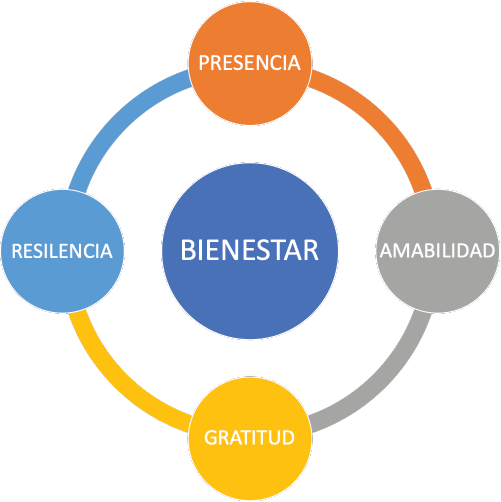
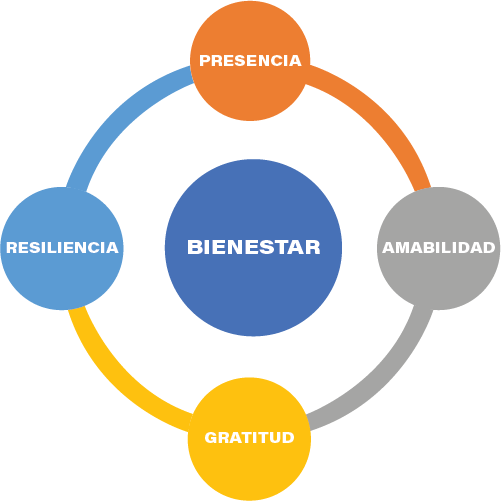
upload new images and fixed some texts

diff --git a/index.html b/index.html
@@ -147,7 +147,7 @@
                 <div class="container">
                         <div class="text-center">
                     <h3 class="section-heading text-uppercase">4 motores del Bienestar que son fuentes de felicidad interna.</h3>
-                    <img class="center" src="assets/img/Motores.png" alt="Girl in a jacket">
+                    <img class="center" src="assets/img/MOTORES.png" alt="Girl in a jacket">
                 <div>
                 
                    
@@ -168,9 +168,9 @@
  <div class="container">
 <h2>¿Por qué Mindfulness y Alegría?</h2>
 <ul>
-<li>Contribuir el autoconocimiento</li>
-<li>Contribuir el equilibrio emocional</li>
-<li>Contribuir el estado de ánimo</li>
+<li>Contribuir al autoconocimiento</li>
+<li>Contribuir al equilibrio emocional</li>
+<li>Contribuir al estado de ánimo</li>
 <li>Aumenta la concentración </li> 
 <li>Favorece la creatividad</li>
 <li>Previene la depresión</li>
@@ -189,12 +189,10 @@
  <div class="container">
     <h2 class="section-heading text-uppercase text-center">RED CONEXIÓN </h2>
      <p>
-Facilitadoras  en procesos de desarrollo de Liderazgo
-Entrenadoras en : <b>CONSCIENCIA-AGILIDAD-ACCOUNTABILITY</b>
+Facilitadoras en procesos de desarrollo de Liderazgo
+entrenadoras en: <b>CONSCIENCIA-AGILIDAD-ACCOUNTABILITY</b>
 Experiencia por mas de <b>30</b> años en organizaciones 
-Expertas en Liderazgo y Consciencia 
-
-Propósito : Contribuir  en el desarrollo de habilidades en liderazgo y comunicación , de personas y equipos con el propósito de ser conscientes en el como hacemos lo que hacemos para ser mas efectivos y asertivos  expandiendo así si capacidad efectiva.</p>          
+<b>Expertas en Liderazgo, Consciencia y Propósito</b> para Contribuir  en el desarrollo de habilidades en liderazgo y comunicación, de personas y equipos con el propósito de ser conscientes en el como hacemos lo que hacemos para ser mas efectivos y asertivos expandiendo así su capacidad efectiva.</p>          
                
      <hr>       
     </div>     
@@ -272,9 +270,9 @@ Guatemala.
       <div class="col-lg-4 center">
         <div class="card mb-5 mb-lg-0">
           <div class="card-body">
-            <h5 class="card-title text-muted text-uppercase text-center">Precios para USA</h5>
-            <h6 class="card-price text-center">US $50 o $1800.000,oo COP<span class="period"></span></h6>
-            <h6 class="card-price text-center">Bancolombia Cuenta Corriente: 30415954003<span class="period"></span></h6>
+            <h5 class="card-title text-muted text-uppercase text-center">Inversión</h5>
+            <h6 class="card-price text-center">US $50 o $180.000 COP<span class="period"></span></h6>
+            <h6 class="card-price text-center">Bancolombia Cuenta Corriente: 30415954003 - Pago por PayPal, comunicarse al correo o Whatsapp<span class="period"></span></h6>
             <h6 class="card-price text-center">WhatsApp +57(313) 718-4004<span class="period"></span></h6>
             <h6 class="card-price text-center">Correo: redconexion20@gmail.com<span class="period"></span></h6>
            
@@ -298,7 +296,7 @@ Guatemala.
         <div class="card mb-5 mb-lg-0">
           <div class="card-body">
             <h5 class="card-title text-muted text-uppercase text-center">Horarios</h5>
-            <h6 class="card-price text-center">GRUPO 1: Jueves de 6:30p.m. a 8:30p.m. hora Bogotá COL.<span class="period"></span></h6>
+            <h6 class="card-price text-center">GRUPO 1: Jueves de 6:30p.m. a 8:30p.m. Hora Colombia COL.<span class="period"></span></h6>
             <h6 class="card-price text-center">Sep 24, Oct 1, Oct 8 y 15.<span class="period"></span></h6>
              <h6 class="card-price text-center">Grupo 2: Sábados, 9:00 a.m. 11:00 a.m.<span class="period"></span></h6>
              <h6 class="card-price text-center">Sep 26, Oct 3, Oct 10 y 17.<span class="period"></span></h6>
@@ -601,7 +599,7 @@ Fundadora de Consciencia y Transformación.</h4>
         <footer class="footer py-4">
             <div class="container">
                 <div class="row align-items-center">
-                    <div class="col-lg-4 text-lg-left">Copyright © Zarta-2020</div>
+                    <div class="col-lg-4">Copyright © Zarta-2020</div>
                     
                       <!--   <a class="btn btn-dark btn-social mx-2" href="#!"><i class="fab fa-twitter"></i></a>
                         <a class="btn btn-dark btn-social mx-2" href="#!"><i class="fab fa-facebook-f"></i></a>
